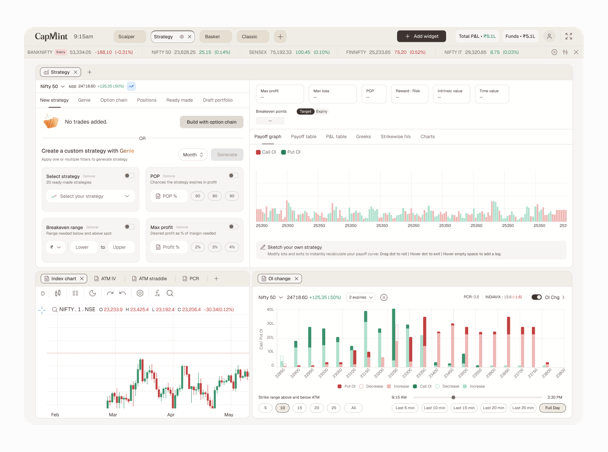
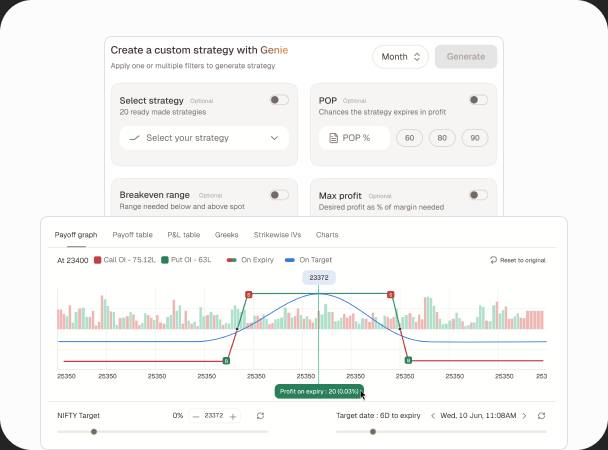
Replace the Strategy builder thumbnail with the updated artwork
The frame now layers two panels — the Genie strategy builder over the
payoff graph — rather than the single terminal screenshot.

Figma's screenshot endpoint renders at 1x and will not upscale, so a
direct capture would be 320x225 and soft on retina beside the 2x Nudge
thumbnail. Worked around it by cloning the thumbnail group onto an
#fcfcfc backing frame matching the media slot, scaling that 2x, and
capturing at its new natural size. The temporary frames were removed
from the Figma page afterwards.

640x450 desktop, 608x450 mobile. Alt text updated to describe the new
composition.

diff --git a/index.html b/index.html
@@ -120,9 +120,9 @@
             <figure class="card__media">
               <picture>
                 <source media="(min-width: 768px)" srcset="assets/img/strategy-builder-desktop.png">
-                <img src="assets/img/strategy-builder-mobile.png" width="608" height="452"
+                <img src="assets/img/strategy-builder-mobile.png" width="608" height="450"
                      decoding="async" loading="lazy"
-                     alt="The CapMint Strategy Terminal — a multi-widget workbench with the strategy builder across the top and analysis charts and OI change below.">
+                     alt="The CapMint Strategy Terminal — the Genie panel for building a strategy from a stated goal, layered over the payoff graph with on-expiry and on-target curves.">
               </picture>
             </figure>
             <span class="card__arrow" aria-hidden="true">
